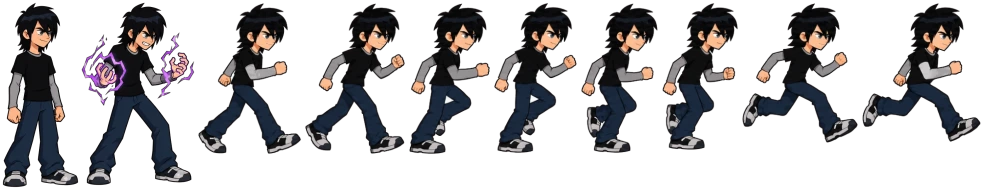
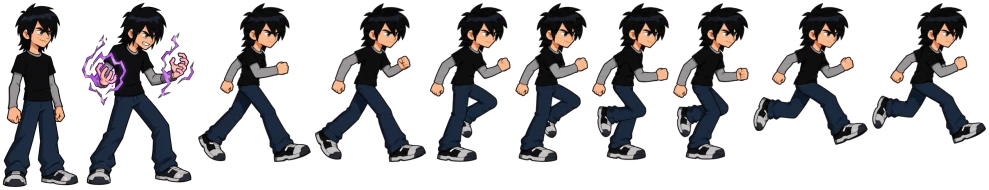
Kevin runs from the owner's second run sheet: nearer his model sheet's proportions, both flights even
Claude-Session: https://claude.ai/code/session_013Hp8tSqP8vgSn4FCMe6iiY

diff --git a/src/scenes/preload/cartoon/cutout/kevinFrames.ts b/src/scenes/preload/cartoon/cutout/kevinFrames.ts
@@ -7,19 +7,19 @@ export const KEVIN_FRAMES: CutoutMeta = {
   texel: 5,
   scale: 17.0,
   headScale: 1,
-  width: 984,
+  width: 989,
   height: 190,
   joints: {},
   frames: {
     "body:absorb": {"x": 81, "y": 2, "w": 114, "h": 184, "px": 51.16, "py": 182.06},
-    "body:run0": {"x": 304, "y": 2, "w": 102, "h": 153, "px": 53.0, "py": 150.86},
-    "body:run1": {"x": 661, "y": 2, "w": 78, "h": 149, "px": 33.41, "py": 147.45},
-    "body:run2": {"x": 408, "y": 2, "w": 83, "h": 153, "px": 37.16, "py": 150.86},
-    "body:run3": {"x": 861, "y": 2, "w": 121, "h": 141, "px": 54.92, "py": 151.86},
-    "body:run4": {"x": 197, "y": 2, "w": 105, "h": 153, "px": 48.31, "py": 150.86},
-    "body:run5": {"x": 580, "y": 2, "w": 79, "h": 152, "px": 32.94, "py": 150.38},
-    "body:run6": {"x": 493, "y": 2, "w": 85, "h": 152, "px": 38.14, "py": 150.38},
-    "body:run7": {"x": 741, "y": 2, "w": 118, "h": 142, "px": 54.17, "py": 150.89},
+    "body:run0": {"x": 314, "y": 2, "w": 113, "h": 161, "px": 54.43, "py": 159.85},
+    "body:run1": {"x": 672, "y": 2, "w": 78, "h": 159, "px": 34.53, "py": 156.99},
+    "body:run2": {"x": 514, "y": 2, "w": 75, "h": 161, "px": 35.0, "py": 159.03},
+    "body:run3": {"x": 871, "y": 2, "w": 116, "h": 143, "px": 51.75, "py": 156.86},
+    "body:run4": {"x": 197, "y": 2, "w": 115, "h": 161, "px": 52.18, "py": 159.44},
+    "body:run5": {"x": 591, "y": 2, "w": 79, "h": 159, "px": 35.86, "py": 156.99},
+    "body:run6": {"x": 429, "y": 2, "w": 83, "h": 161, "px": 37.98, "py": 159.85},
+    "body:run7": {"x": 752, "y": 2, "w": 117, "h": 144, "px": 54.81, "py": 157.68},
     "body:stand": {"x": 2, "y": 2, "w": 77, "h": 186, "px": 32.87, "py": 185.0},
   },
   bends: {},

diff --git a/tests/chapter7.test.ts b/tests/chapter7.test.ts
@@ -92,10 +92,10 @@ describe('chapter 7 layout', () => {
   });
 
   it('the family and Kevin move at speeds their drawn cycles keep up with', () => {
-    // Twice the gait is the most a cycle plays (config/cartoon/gait.ts): Max walks 36, Gwen runs 62, Kevin runs 73.
+    // Twice the gait is the most a cycle plays (config/cartoon/gait.ts): Max walks 36, Gwen runs 62, Kevin runs 80.
     expect(CH7_BEATS.ring.maxHurry).toBeLessThanOrEqual(72);
     expect(CH7_LATE.max.speed).toBeLessThanOrEqual(72);
-    expect(CH7_REACTOR.glimpse.speed).toBeLessThanOrEqual(146);
+    expect(CH7_REACTOR.glimpse.speed).toBeLessThanOrEqual(160);
   });
 });
 

diff --git a/src/config/cartoon/gait.ts b/src/config/cartoon/gait.ts
@@ -10,8 +10,8 @@ export const GAIT: Readonly<Record<string, Readonly<Record<string, number>>>> = 
   gwen: { run: 62, walk: 31 },
   // About 3.6 px a drawing: 10 and 15 a second.
   max: { walk: 36, run: 54 },
-  // About 4.55 px a drawing: 16 and 10 a second.
-  kevin: { run: 73, walk: 46 },
+  // About 5 px a drawing (his second run sheet): 16 and 10 a second.
+  kevin: { run: 80, walk: 50 },
 };
 
 /** The fastest and slowest a cycle plays to keep up (beyond this its feet slide rather than blur). */

diff --git a/scripts/cutout/kevin_frames.py b/scripts/cutout/kevin_frames.py
@@ -1,6 +1,7 @@
 # Kevin frame by frame: every pose is one of his generated drawings (see frames.py).
 # Sheets: his model sheet (the three-quarter view and the absorbing pose with
-# purple hands) and his run cycle (8 frames).
+# purple hands) and his run cycle (8 frames, the owner's second run sheet: drawn nearer his model sheet's
+# proportions; frames 5-8 repeat 1-4's stride, which reads as the other leg with both legs alike).
 
 ID = 'kevin'
 TEXEL = 5
@@ -13,21 +14,21 @@ SHEETS = {
 }
 REF = ('model', 1)
 # His hair and shirt are both black: the shirt is looked for only between his chin and his waist,
-# and the run sheet (drawn stockier, a head 20% bigger for his body) is scaled between his head's
-# height (x1.61) and his height (x1.72 once a runner's crouch is allowed for).
+# and the run sheet (a head 15% bigger for his body than the model sheet's) is scaled between his head's
+# height (x1.40) and his height (x1.38 once a runner's crouch is allowed for).
 HAIR = (16, 15, 17)
 SHIRT = (16, 15, 17)
 SHIRT_BAND = 1.3
 SKIN = (249, 181, 139)
-SHEET_SCALE = {'model': 1.0, 'run': 1.66}
+SHEET_SCALE = {'model': 1.0, 'run': 1.39}
 
 FRAMES = {
     'stand': ('model', 1), 'absorb': ('model', 4),
     'run0': ('run', 0), 'run1': ('run', 1), 'run2': ('run', 2), 'run3': ('run', 3),
     'run4': ('run', 4), 'run5': ('run', 5), 'run6': ('run', 6), 'run7': ('run', 7),
 }
-# Airborne run frames, by how far their lowest foot sits over the sheet's ground line (game px).
-LIFT = {'run3': 2.64, 'run7': 2.25}
+# Airborne run frames (game px over the floor): the sheet floats him 3.6 and 3.4, evened out a touch lower.
+LIFT = {'run3': 3.0, 'run7': 3.0}
 
 PALETTE = [(16, 15, 17), (29, 44, 64), (5, 5, 6), (18, 29, 46), (249, 181, 139), (152, 148, 150), (197, 192, 192), (204, 130, 94)]
 SNAP = 0.35

diff --git a/docs/ch7-wip.md b/docs/ch7-wip.md
@@ -16,7 +16,7 @@ Uncommitted at handoff time: nothing (the Deepmaw rig and manifest were committe
 
 ## Still to do, in order
 
-0. **Frame by frame, from the owner's animation sheets** (DECISIONS.md, "Characters drawn frame by frame"). Every pose is one of the owner's ChatGPT drawings played as it is; nothing is cut or bent (the owner rejected the cut-out puppets below: "feels like pieces"). **Done: Ben** (`scripts/cutout/ben_frames.py`, clips `BEN_FRAME_CLIPS` in `characters/ben.ts`: idle, run, jump, fall, land, punch, hurt, roll, defeat, watch, slam, swim, tread, drown and eight story poses). **Started: Gwen, Max, Kevin** (`scripts/cutout/<id>_frames.py`, `<ID>_FRAME_CLIPS`): their cycles (Gwen's and Kevin's 8-frame runs, Max's 8-frame walk; Gwen's run is the owner's second run sheet, whose legs swap and body doesn't twist). **Gwen is done** except swimming and looking at her hands: her action and story-pose sheets are in (`gwen-action-poses.webp`, `gwen-story-poses.webp`), 16 of her 23 animations play her own drawings. Max walks from the owner's second walk sheet (his arms swap; the stride measures 3.5 px a drawing, within 4% of the old one, so `GAIT.max` stays). His action poses are in (`max-action-poses.webp`): the console, the blaster (Chapter 7's `spray`; the bolt leaves the drawn muzzle, `CH7_LATE.max.handHeight`/`muzzleAhead`), the badge, the salute, talk, cheer and surprise. **Max is done** too: his story poses are in (`max-story-poses.webp`: point, shrug, think, wave, worried, laugh, stern, hurt), 17 of his 27 animations play his own drawings (he never jumps or swims in a story). Kevin is next. In Chapter 7 Gwen and Max strike their talk drawing while their line plays (`plumber/story/talkers.ts`), and a family actor in an HD chapter can take any pose its rig has, even one its pixel sheet lacks (`FamilyActor.show`) and the model sheets' standing drawings (Max's side view at the console, Kevin's absorbing pose); every other pose borrows the standing drawing until these arrive (the prompts are in the "Animation Sheet Prompts" artifact, see PROGRESS): an 8-pose action sheet each (Gwen: stand, jump, fall, land, hurt, cast spell with a pink-purple ball, arms folded, talking; Max: stand, at a console, firing a blaster one-handed, holding up his badge, salute, talking, cheering, surprised; Kevin: smirk, absorbing (hands glowing purple), wind-up, throw, lunge, laughing, hurt, jumping) and a story-pose sheet for Gwen and Max (talk, point, shrug, surprised, cheer, think, wave, worried), each made from the character's cycle sheet so the proportions match (DECISIONS.md, "A size jump between sheets"). When they land: add them to `SHEETS`/`FRAMES` (scale them like the cycle sheet: `frames.py` prints the head and hair ratios), give each clip its drawing, and drop the borrowed ones. Their cycles play at the rate their speed needs (`config/cartoon/gait.ts`): move them near those speeds in the set pieces.
+0. **Frame by frame, from the owner's animation sheets** (DECISIONS.md, "Characters drawn frame by frame"). Every pose is one of the owner's ChatGPT drawings played as it is; nothing is cut or bent (the owner rejected the cut-out puppets below: "feels like pieces"). **Done: Ben** (`scripts/cutout/ben_frames.py`, clips `BEN_FRAME_CLIPS` in `characters/ben.ts`: idle, run, jump, fall, land, punch, hurt, roll, defeat, watch, slam, swim, tread, drown and eight story poses). **Started: Gwen, Max, Kevin** (`scripts/cutout/<id>_frames.py`, `<ID>_FRAME_CLIPS`): their cycles (Gwen's and Kevin's 8-frame runs, Max's 8-frame walk; Gwen's run is the owner's second run sheet, whose legs swap and body doesn't twist). **Gwen is done** except swimming and looking at her hands: her action and story-pose sheets are in (`gwen-action-poses.webp`, `gwen-story-poses.webp`), 16 of her 23 animations play her own drawings. Max walks from the owner's second walk sheet (his arms swap; the stride measures 3.5 px a drawing, within 4% of the old one, so `GAIT.max` stays). His action poses are in (`max-action-poses.webp`): the console, the blaster (Chapter 7's `spray`; the bolt leaves the drawn muzzle, `CH7_LATE.max.handHeight`/`muzzleAhead`), the badge, the salute, talk, cheer and surprise. **Max is done** too: his story poses are in (`max-story-poses.webp`: point, shrug, think, wave, worried, laugh, stern, hurt), 17 of his 27 animations play his own drawings (he never jumps or swims in a story). Kevin runs from the owner's second run sheet (nearer his model sheet's proportions; 5 px a drawing, `GAIT.kevin` 80); his action poses are next. In Chapter 7 Gwen and Max strike their talk drawing while their line plays (`plumber/story/talkers.ts`), and a family actor in an HD chapter can take any pose its rig has, even one its pixel sheet lacks (`FamilyActor.show`) and the model sheets' standing drawings (Max's side view at the console, Kevin's absorbing pose); every other pose borrows the standing drawing until these arrive (the prompts are in the "Animation Sheet Prompts" artifact, see PROGRESS): an 8-pose action sheet each (Gwen: stand, jump, fall, land, hurt, cast spell with a pink-purple ball, arms folded, talking; Max: stand, at a console, firing a blaster one-handed, holding up his badge, salute, talking, cheering, surprised; Kevin: smirk, absorbing (hands glowing purple), wind-up, throw, lunge, laughing, hurt, jumping) and a story-pose sheet for Gwen and Max (talk, point, shrug, surprised, cheer, think, wave, worried), each made from the character's cycle sheet so the proportions match (DECISIONS.md, "A size jump between sheets"). When they land: add them to `SHEETS`/`FRAMES` (scale them like the cycle sheet: `frames.py` prints the head and hair ratios), give each clip its drawing, and drop the borrowed ones. Their cycles play at the rate their speed needs (`config/cartoon/gait.ts`): move them near those speeds in the set pieces.
 
    How, per character:
    - Save each sheet as `docs/art-refs/<id>-<run-cycle|walk-cycle|action-poses|story-poses>.webp` (attached images arrive under the session's `images/` folder). Check it first: whole bodies, same size, signature details kept (Gwen's cat clip and cat shirt, Max's holster and flower shirt, Kevin's grey under-sleeves). A run cycle's legs should swap sides between frames 1-4 and 5-8 (look at which leg is drawn in front, and which arm); ChatGPT often repeats the first half instead, which still plays when both legs look alike. One bad frame can be replaced by holding its neighbour (Ben's fourth run frame). Compare the head's size with the model sheet's: the cycle sheets come out stockier (`SHEET_SCALE`).
